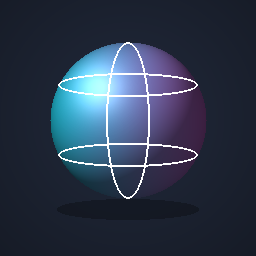
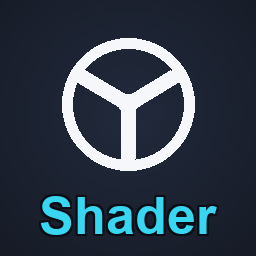
feat: Marketplace/README 双语功能清单（口径=能力面实态）；图标改 Unity 风格 Y 标+Shader 字样；版本 0.0.3

diff --git a/scripts/make-icon.py b/scripts/make-icon.py
@@ -1,7 +1,9 @@
-# 生成扩展 icon（256x256 PNG）：深色底 + 青→品红渐变着色球 + 高亮与经纬线。
+# 生成扩展 icon（256x256 PNG）v2：深色底 + Unity 风格圆环三弦 Y 标 + 「Shader」字样。
 # 一次性资产脚本：产物 client/images/icon.png 入库（Marketplace 列表图标）。
+# v1（着色球）保留在 git 历史里。
 import math
-from PIL import Image, ImageDraw
+import os
+from PIL import Image, ImageDraw, ImageFont
 
 S = 256
 img = Image.new("RGB", (S, S))
@@ -9,64 +11,61 @@ px = img.load()
 
 # 背景：深色 + 轻微径向提亮
 bg_a, bg_b = (22, 27, 38), (34, 42, 60)
-cx0, cy0 = S / 2, S * 0.46
+cx0, cy0 = S / 2, S * 0.44
 for y in range(S):
     for x in range(S):
         d = math.hypot(x - cx0, y - cy0) / (S * 0.75)
         t = max(0.0, 1.0 - d)
-        r = int(bg_a[0] + (bg_b[0] - bg_a[0]) * t)
-        g = int(bg_a[1] + (bg_b[1] - bg_a[1]) * t)
-        b = int(bg_a[2] + (bg_b[2] - bg_a[2]) * t)
-        px[x, y] = (r, g, b)
-
-# 着色球：中心 (128,120)，半径 78；颜色 = 水平渐变（青→品红），亮度 = 球面光照
-R, BCX, BCY = 78, 128, 120
-c1, c2 = (34, 211, 238), (232, 121, 249)  # cyan → fuchsia
-lx, ly, lz = -0.55, -0.60, 0.58  # 光源方向（左上前方）
-ln = math.sqrt(lx * lx + ly * ly + lz * lz)
-lx, ly, lz = lx / ln, ly / ln, lz / ln
-for y in range(BCY - R, BCY + R + 1):
-    for x in range(BCX - R, BCX + R + 1):
-        dx, dy = (x - BCX) / R, (y - BCY) / R
-        d2 = dx * dx + dy * dy
-        if d2 > 1.0:
-            continue
-        dz = math.sqrt(1.0 - d2)
-        t = (dx + 1.0) / 2.0  # 水平渐变参数
-        cr = c1[0] + (c2[0] - c1[0]) * t
-        cg = c1[1] + (c2[1] - c1[1]) * t
-        cb = c1[2] + (c2[2] - c1[2]) * t
-        diff = max(0.0, dx * lx + dy * ly + dz * lz)
-        shade = 0.32 + 0.68 * diff
-        # 边缘压暗（菲涅尔近似）
-        fres = 0.75 + 0.25 * dz
-        r = min(255, int(cr * shade * fres))
-        g = min(255, int(cg * shade * fres))
-        b = min(255, int(cb * shade * fres))
-        # 镜面高光
-        spec = max(0.0, dz * 2 - 1.0)
-        hx, hy = dx + 0.42, dy + 0.45
-        h = math.exp(-(hx * hx + hy * hy) * 9.0) * 120 * dz
-        r = min(255, int(r + h))
-        g = min(255, int(g + h))
-        b = min(255, int(b + h))
-        px[x, y] = (r, g, b)
+        px[x, y] = (
+            int(bg_a[0] + (bg_b[0] - bg_a[0]) * t),
+            int(bg_a[1] + (bg_b[1] - bg_a[1]) * t),
+            int(bg_a[2] + (bg_b[2] - bg_a[2]) * t),
+        )
 
 draw = ImageDraw.Draw(img)
-# 经纬线（着色器球体的暗示）：两条纬线 + 一条中央经线，低对比
-for k in (-0.45, 0.45):
-    ry = BCY + k * R
-    rx = math.sqrt(max(0.0, 1 - k * k)) * R
-    draw.ellipse([BCX - rx, ry - rx * 0.16, BCX + rx, ry + rx * 0.16], outline=(255, 255, 255, 40), width=2)
-draw.ellipse([BCX - R * 0.28, BCY - R, BCX + R * 0.28, BCY + R], outline=(255, 255, 255, 36), width=2)
 
-# 底部接地阴影
-sh = Image.new("RGBA", (S, S), (0, 0, 0, 0))
-ImageDraw.Draw(sh).ellipse([BCX - R * 0.9, BCY + R * 1.02, BCX + R * 0.9, BCY + R * 1.28], fill=(0, 0, 0, 70))
-img = Image.alpha_composite(img.convert("RGBA"), sh).convert("RGB")
+# Unity 风格标记：圆环 + 字母 Y 三弦（两臂向上、一臂向下），臂端留缺口不触环
+# （和平标志的读法来自「臂触环 + 一臂向上」，Unity 标是 Y 形 + 缺口）
+MCX, MCY, MR = 128, 104, 66
+ring = 11
+draw.ellipse([MCX - MR, MCY - MR, MCX + MR, MCY + MR], outline=(245, 247, 250), width=ring)
+arm = 15
+tip = 0.82  # 臂端停在环内 82% 半径处，留可见缺口
 
-import os
-os.makedirs(os.path.join(os.path.dirname(__file__), "..", "client", "images"), exist_ok=True)
+
+def cap(x, y, r, color):
+    draw.ellipse([x - r, y - r, x + r, y + r], fill=color)
+
+
+for ang in (-150, -30, 90):  # 左上、右上、下（字母 Y）
+    a = math.radians(ang)
+    ex, ey = MCX + MR * tip * math.cos(a), MCY + MR * tip * math.sin(a)
+    draw.line([MCX, MCY, ex, ey], fill=(245, 247, 250), width=arm)
+    cap(ex, ey, arm / 2 - 1, (245, 247, 250))
+cap(MCX, MCY, arm / 2 + 2, (245, 247, 250))  # 中心圆帽，让三臂衔接圆润
+
+# 前景：「Shader」字样（青色，粗体）
+font = None
+for cand in ("arialbd.ttf", "segoeui-bold.ttf", "arial.ttf"):
+    p = os.path.join(os.environ.get("WINDIR", r"C:\Windows"), "Fonts", cand)
+    if os.path.exists(p):
+        font = ImageFont.truetype(p, 52)
+        break
+if font is None:
+    font = ImageFont.load_default()
+text = "Shader"
+col = (56, 214, 240)
+tb = draw.textbbox((0, 0), text, font=font)
+tw, th = tb[2] - tb[0], tb[3] - tb[1]
+tx, ty = (S - tw) / 2 - tb[0], 196 - tb[1]
+# 深色描边保证小尺寸可读
+for dx in (-2, 0, 2):
+    for dy in (-2, 0, 2):
+        if dx or dy:
+            draw.text((tx + dx, ty + dy), text, font=font, fill=(10, 14, 22))
+draw.text((tx, ty), text, font=font, fill=col)
+
 out = os.path.join(os.path.dirname(__file__), "..", "client", "images", "icon.png")
+os.makedirs(os.path.dirname(out), exist_ok=True)
 img.save(out, "PNG")
 print("wrote", out, img.size)

diff --git a/README.md b/README.md
@@ -2,10 +2,49 @@
 
 > 给 Unity 开发者用的 VSCode 插件：为 `.shader` / `.hlsl` 提供转到定义、语义补全、重命名、语法与类型诊断。工作名，可改。
 
-**当前状态**：M1～M5（T-001～T-067）与 **M6 插件端（T-068～T-073）** 全部完成，backlog 无待办；
-实测 vsix 23.67 MB、四门槛（语法 / 类型 / 格式化 / 变体）全 PASS（2026-10-29 复跑，详见
-[docs/progress/status.md](docs/progress/status.md)）。M6 的 Unity 包侧已移出范围（ADR 0014），
-插件端对 Unity 工程只读不写。
+## Features — ShaderLab (`.shader`)
+
+- Syntax highlighting (keywords, properties, passes, semantics)
+- Document formatting (idempotent; never rewrites on failure)
+- Go to definition / peek definition — cross-file, follows `#include` (Unity CGIncludes and package paths)
+- Hover definition info (shader names, properties, HLSL symbols; common Unity built-ins via the bundled CGIncludes index)
+- Find all references
+- Rename symbol (shader names, two-step prepare/rename)
+- Completion — shader names in `Fallback` / `UsePass`, `#include` paths, HLSL members after `.`
+- Syntax diagnostics + dead-branch graying for conditional compilation
+- DXC type diagnostics — official `dxc` bundled per platform (win32-x64/arm64, linux-x64, darwin-x64/arm64)
+- Variant count report with material evidence (command palette)
+- Convert language mode command — coexists with Unity for VS Code (VSTU) without touching user settings
+
+## Features — HLSL (`.hlsl` / `.hlslinc` / `.cginc`)
+
+- Syntax highlighting and formatting
+- Cross-file go to definition, hover, find all references
+- Completion (members after `.`, include paths)
+
+## 功能 — ShaderLab（`.shader`）
+
+- 语法高亮（关键字、属性、Pass、语义）
+- 格式化文档（幂等，失败即不改）
+- 转到定义 / 速览定义（跨文件，跟随 `#include`，支持 CGIncludes 与 Unity 包路径）
+- 悬停查看定义（着色器名、属性、HLSL 符号；常见 Unity 内置函数经随包 CGIncludes 索引）
+- 查找所有引用
+- 重命名符号（着色器名，两步流程）
+- 补全（`Fallback`/`UsePass` 着色器名、`#include` 路径、`.` 后的 HLSL 成员）
+- 语法诊断 + 条件编译死分支灰化
+- DXC 类型诊断（按平台附带官方 `dxc`，无需安装）
+- 变体计数报告（含材质证据，命令面板）
+- 转换语言模式命令（与 Unity for VS Code 共存，不改用户设置）
+
+## 功能 — HLSL（`.hlsl` / `.hlslinc` / `.cginc`）
+
+- 语法高亮与格式化
+- 跨文件转到定义、悬停、查找所有引用
+- 补全（`.` 后成员、include 路径）
+
+**当前状态**：M1～M6 全部完成，backlog 清空；已上架 Marketplace（发布者 `xiake-1`），
+四门槛（语法 / 类型 / 格式化 / 变体）全 PASS（详见 [docs/progress/status.md](docs/progress/status.md)）。
+M6 的 Unity 包侧已移出范围（ADR 0014），插件端对 Unity 工程只读不写。
 
 ## Agent 工作规则（必读）
 
